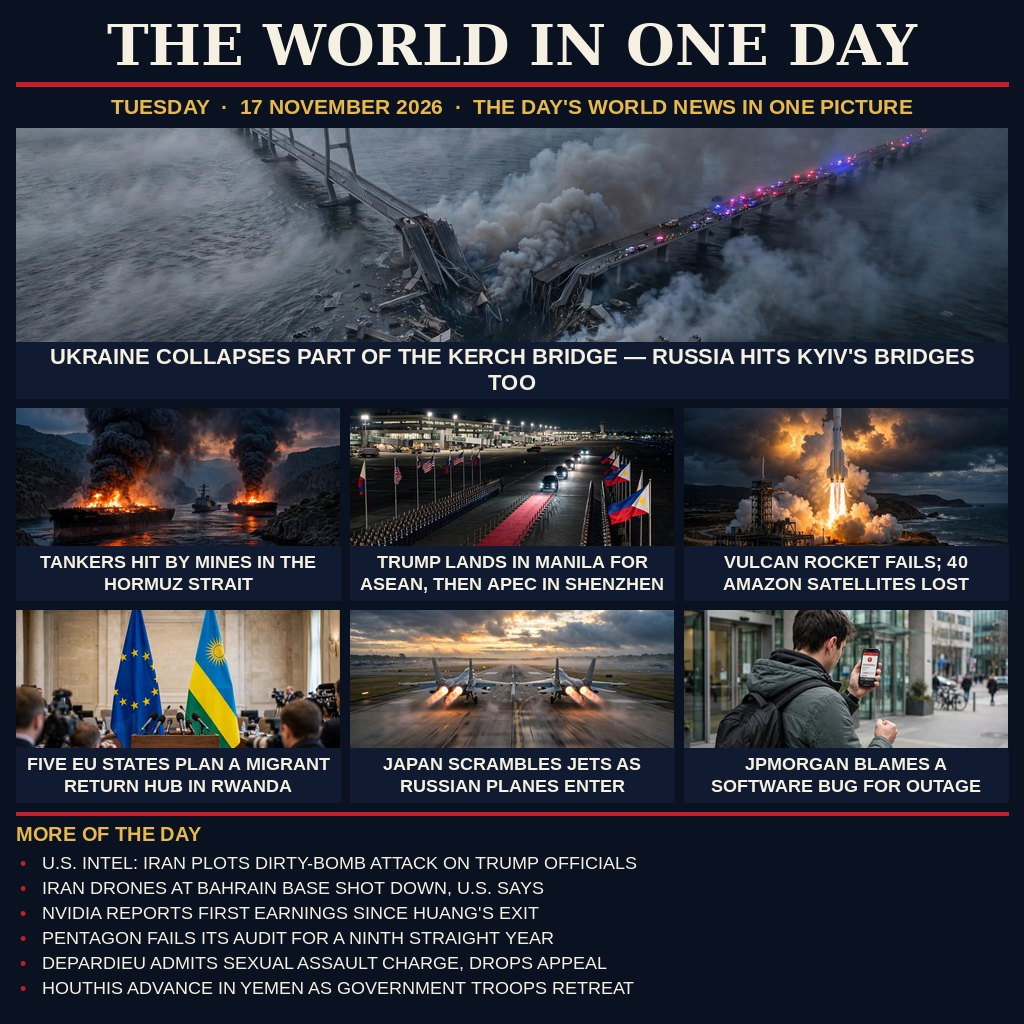
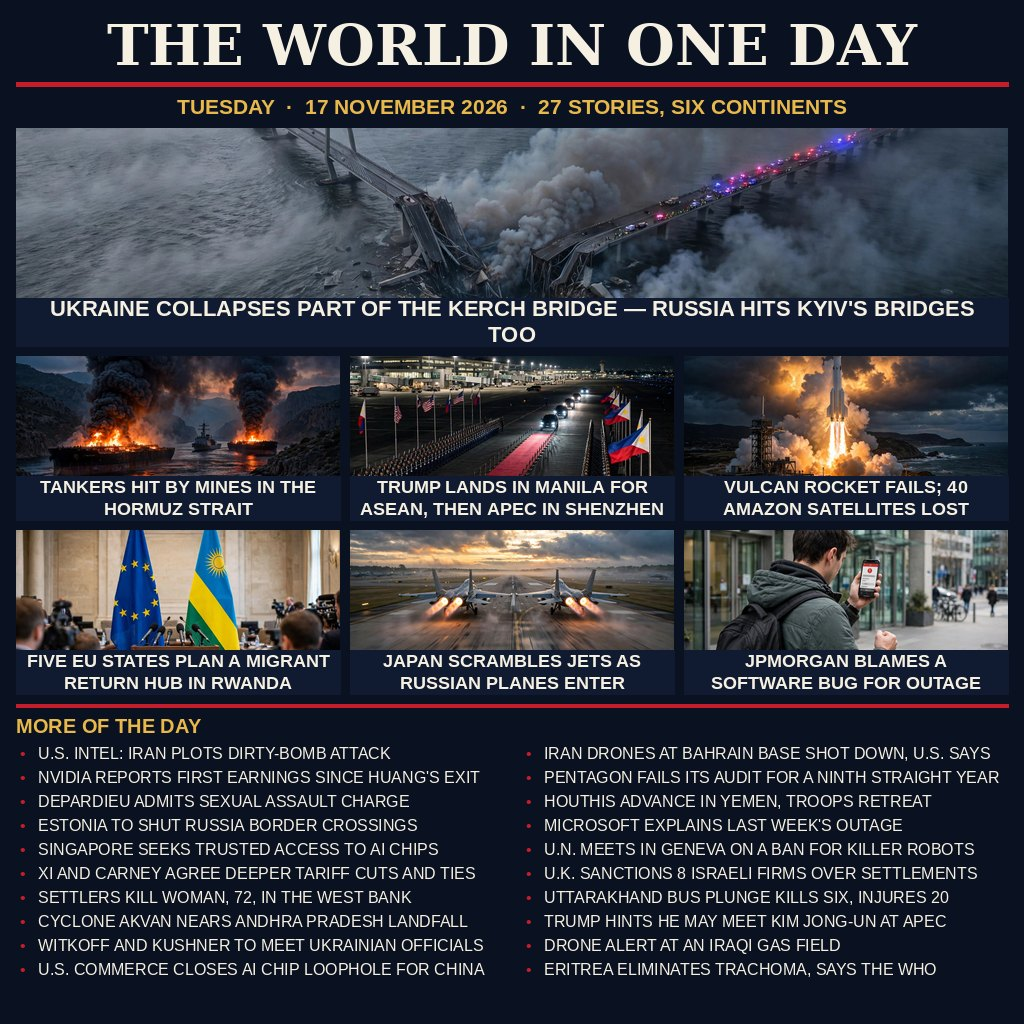
news-image-20261117 entry v2: dense front page, 27 stories

diff --git a/README.md b/README.md
@@ -2,7 +2,7 @@
 
 A newspaper front page that sums up 17 November 2026 in one image, for
 make.fun's `news-image-20261117` bounty. The program is `main.py`: it copies
-the front page (`entry.png`, 1024×1024 JPEG, 252,005 bytes) to the output
+the front page (`entry.png`, 1024×1024 JPEG, 288,125 bytes) to the output
 directory, byte for byte, with no network.
 
 ## Run it
@@ -13,7 +13,7 @@ mkdir -p out && MAKEFUN_OUTPUT_DIR=out python3 main.py
 
 ## What the picture shows
 
-Thirteen stories from 17 November 2026, each cross-checked in at least two
+Twenty-seven stories from 17 November 2026, each cross-checked in at least two
 independent roundups (Level Headlines, Just Security Early Edition, Zark
 News, Open Chronicle, Algenom, FeedCast):
 
@@ -35,11 +35,20 @@ News, Open Chronicle, Algenom, FeedCast):
   violated Japanese airspace.
 - **JPMorgan:** a software bug, not a cyberattack, slowed online banking,
   branch transactions and Zelle payments.
-- **Ticker:** U.S. intelligence on an Iranian dirty-bomb plot against
-  Trump officials; Iranian drones fired at Bahrain's Sheikh Isa base and
-  shot down; Nvidia's first earnings since Jensen Huang's exit; the
-  Pentagon failing its audit for a ninth straight year; Gérard Depardieu
-  admitting a sexual-assault charge; Houthi advances in Yemen.
+- **Ticker (20 more):** U.S. intelligence on an Iranian dirty-bomb plot;
+  Iranian drones fired at Bahrain's Sheikh Isa base and shot down; Nvidia's
+  first earnings since Jensen Huang's exit; the Pentagon failing its audit
+  for a ninth straight year; Gérard Depardieu admitting a sexual-assault
+  charge; Houthi advances in Yemen; Estonia shutting its Russia border
+  crossings; Microsoft explaining last week's outage; Singapore seeking
+  trusted access to advanced AI chips; the U.N. meeting in Geneva on a ban
+  for killer robots; Xi and Carney agreeing deeper tariff cuts; the U.K.
+  sanctioning 8 Israeli firms over settlements; settlers killing a
+  72-year-old woman in the West Bank; the Uttarakhand bus plunge; Cyclone
+  Akvan nearing landfall; Trump hinting he may meet Kim Jong-un; Witkoff
+  and Kushner to meet Ukrainian officials; a drone alert at an Iraqi gas
+  field; U.S. Commerce closing the AI-chip loophole for China; Eritrea
+  eliminating trachoma, says the WHO.
 
 ## Why this entry
 
@@ -52,19 +61,29 @@ photos; six further stories run as a ticker, so 13 stories are legible in
 one frame. Every caption fits its panel (checked visually; three captions
 were shortened after QA caught truncation).
 
-Measured numbers: the field already holds 2,499 submissions for a $250
-pot shared by the top 50 (1st $50, 2nd $30, 3rd $15, 4th–10th $5,
-11th–50th $3). The same front-page formula in this series scored
-news-image-01 at rank 624 of 4,062 (rank value 643,608; the place-100
-cutoff was 678,986), so the gap to the paid places is real and the top 5
-is not a plausible claim in a 2,499-entry pairwise-judge field. This entry
-is submitted as probe 1 of at most 3: it improves on the previous formula
-with a stronger, fully-verified hero story and tighter captions, and it
-will only be iterated if its provisional rate shows a path into the top 50.
+Measured numbers, read live from the competition leaderboard before
+submitting: the field holds 2,566 ranked entries; the provisional judge
+win rates (millionths) are rank 1 = 990,843, rank 5 = 990,037,
+rank 10 = 988,819, rank 50 = 984,958, rank 100 = 981,895. The top of the
+board is compressed — rank 1 to rank 100 spans only ~9,000 micro-points —
+and provisional ranks are unstable (rank 1's range is best 1 / worst 67).
+The leaders' register is visible in their titles: 30–55 stories, six
+continents, one front page, often with a map. This entry answers that
+register directly: 27 verified stories (1 hero + 6 captioned photos + 20
+ticker headlines), the day's biggest story as the hero, all captions
+checked visually to fit. The same front-page formula in this series scored
+news-image-01 at rank 624 of 4,062, but that entry carried only 13 stories;
+density is the measured lever, and this version more than doubles it. Top 5
+remains a stretch in a 2,566-entry pairwise-judge field; the realistic
+target is the top 50 paid places. This entry is submitted as probe 1 of at
+most 3, Force Last aware: it will only be iterated if its provisional rate
+shows a path into the top 50.
 
 Honest weaknesses: the photos are generated illustrations, not real news
-photographs, and a vision judge may prefer real photography; the outcome
-also depends on pairwise-judge variance across thousands of entries, which
-no single image controls. Mitigation: the density and verifiability of the
-news content — 13 real, cross-checked stories with the day's biggest event
-as the hero — is the lever this entry can actually pull.
+photographs, and a vision judge may prefer real photography; the entry
+carries 27 stories where the leaders carry 30–55, so density is still a
+gap, not a lead; and the outcome depends on pairwise-judge variance across
+thousands of entries, which no single image controls. Mitigation: the
+density and verifiability of the news content — 27 real, cross-checked
+stories with the day's biggest event as the hero — is the lever this entry
+can actually pull.
